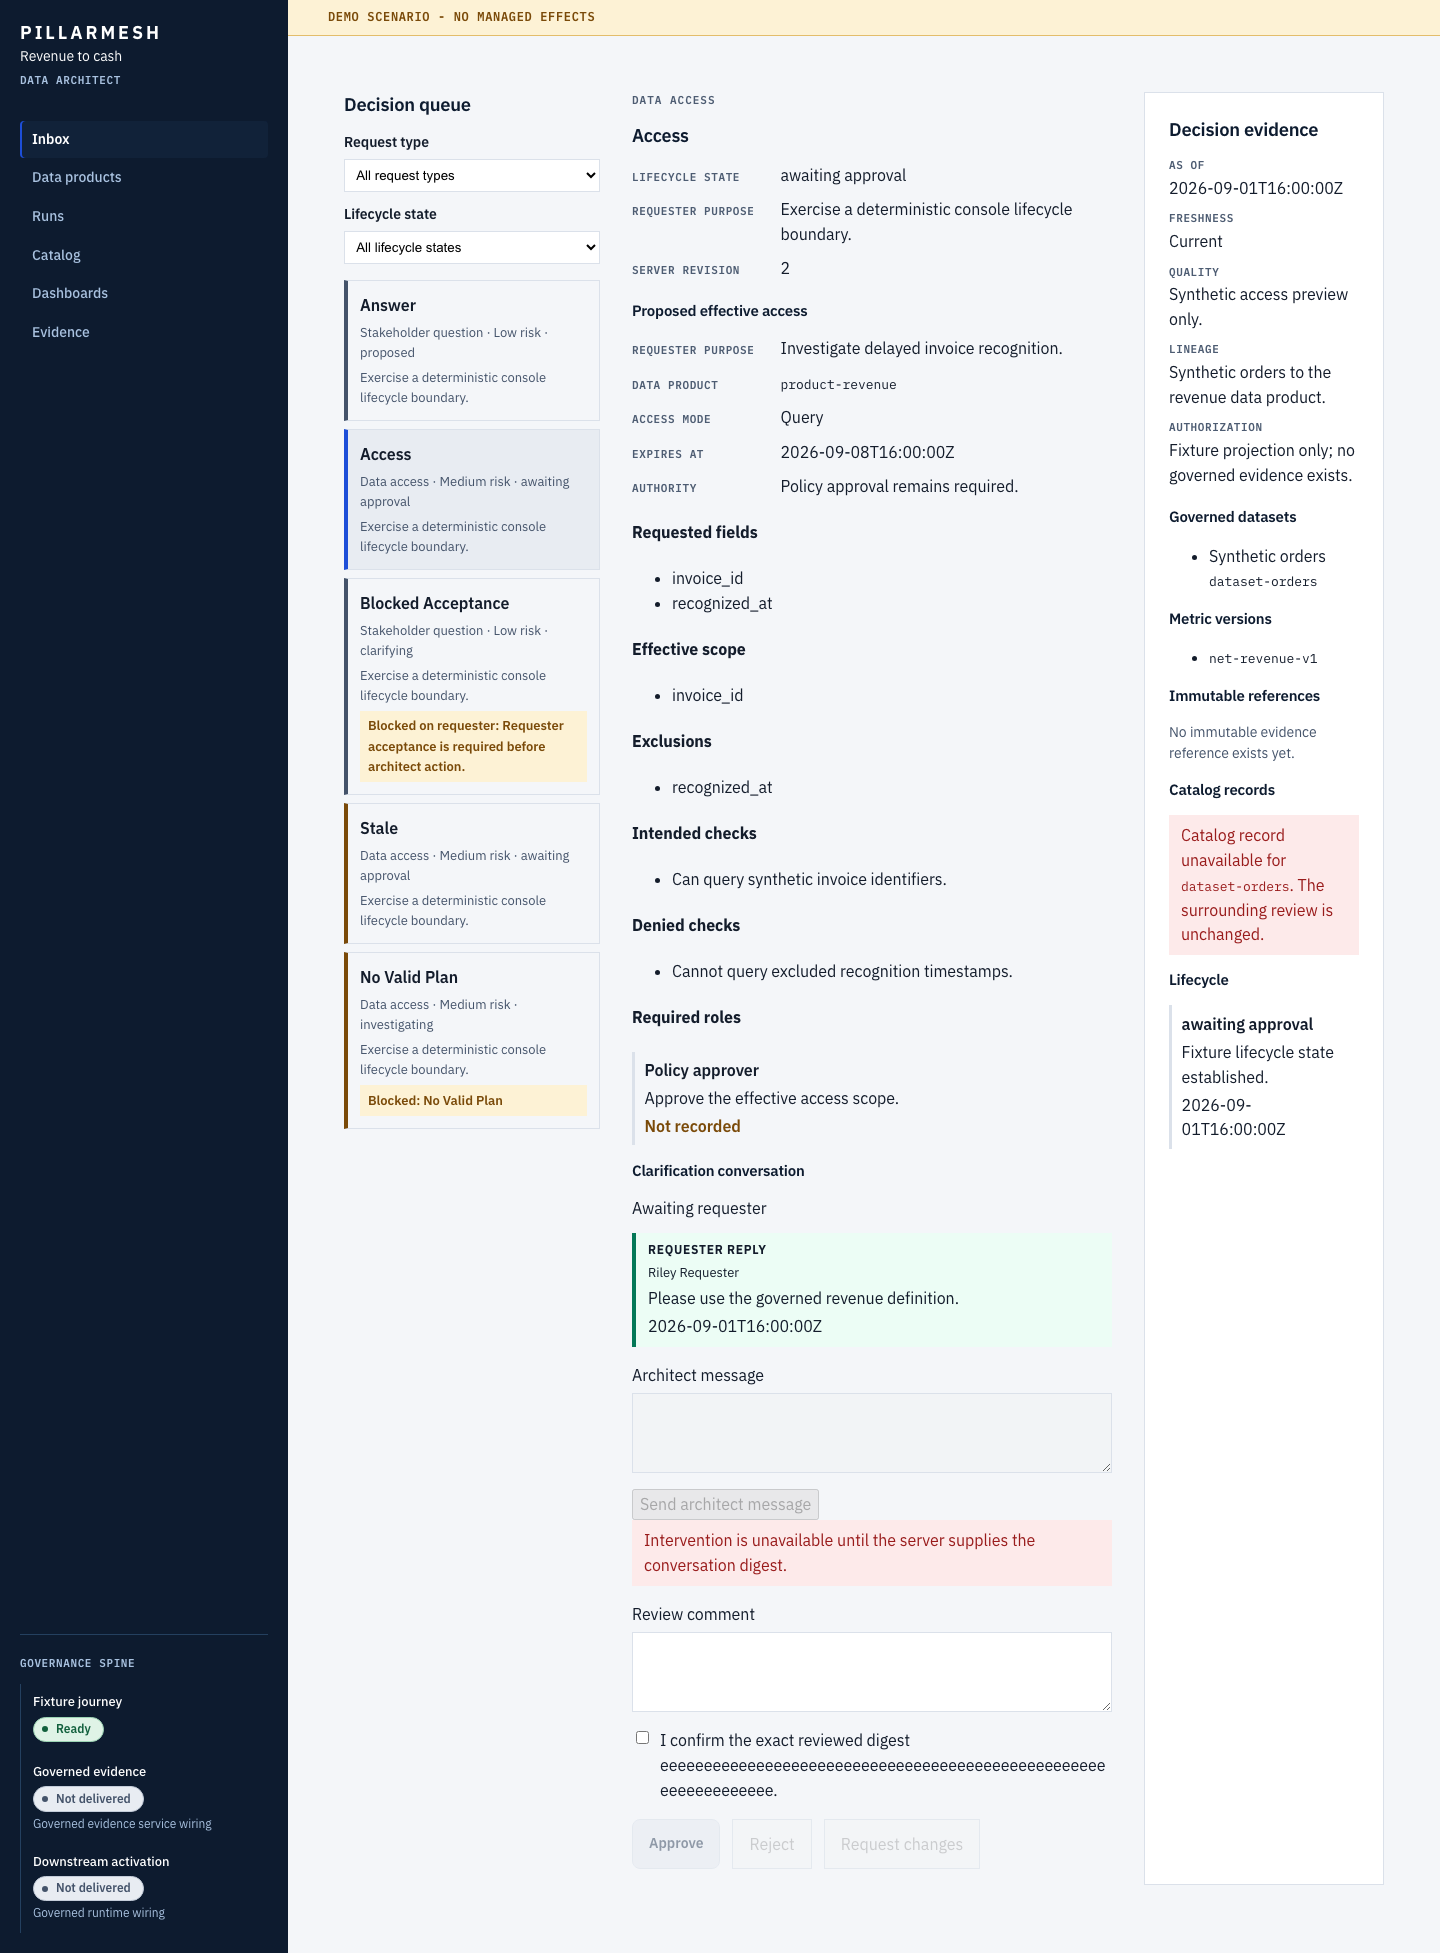
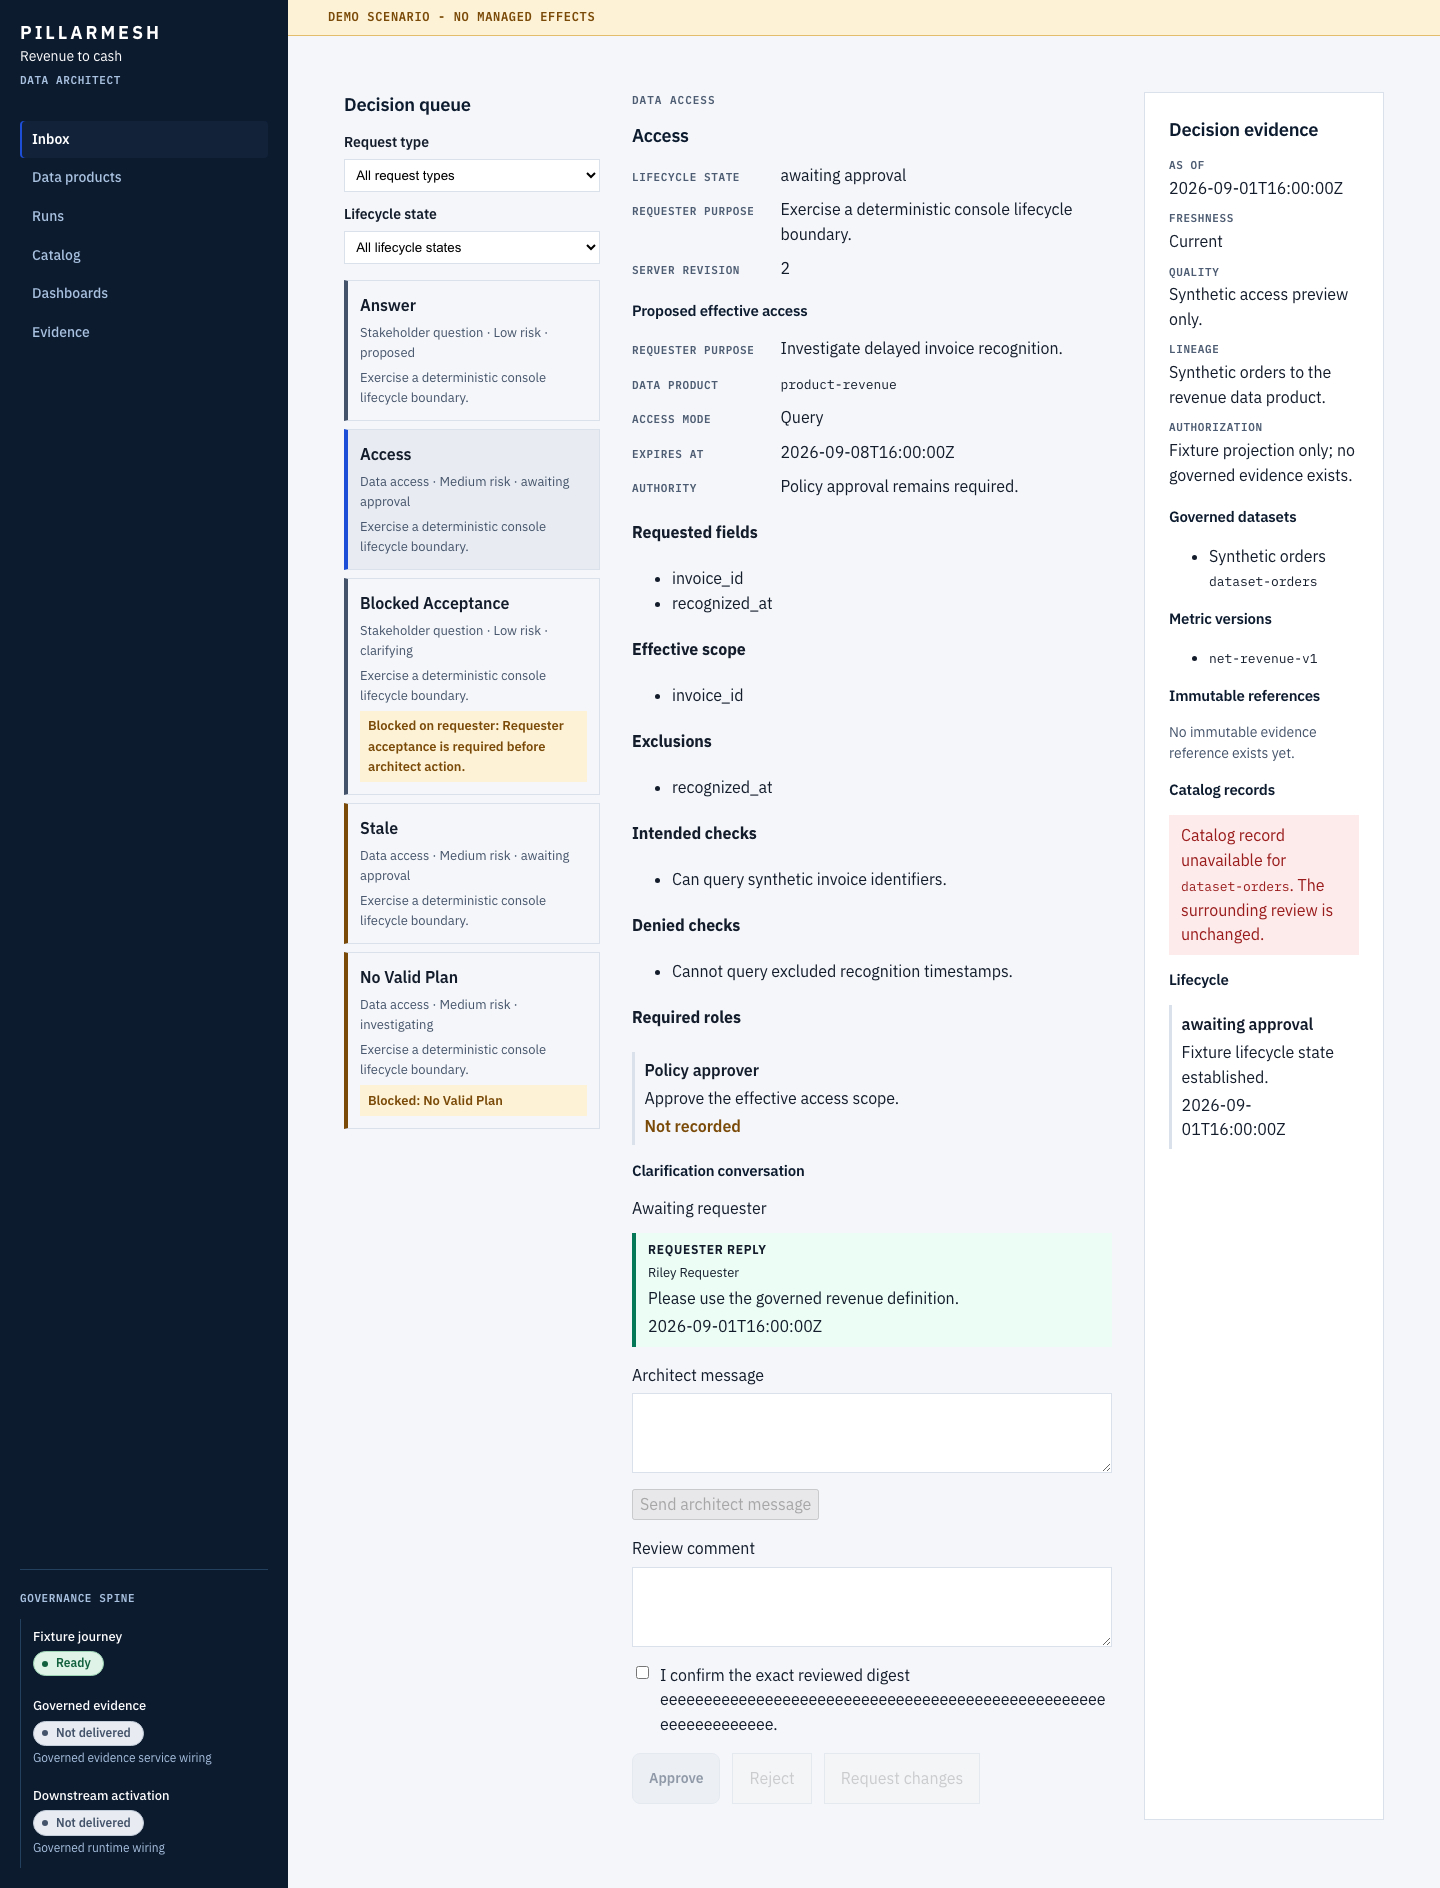
fix(console): let the architect speak in the clarification conversation (#26)
* fix(console): let the architect speak in the clarification conversation

The conversation panel refused every architect message and told the architect the
server had not supplied a conversation digest. The server had supplied it: the
detail projection carries `conversation.conversation_digest`, and
`POST /api/v1/requests/{id}/conversation` commits against it - verified by hand
against the governed console, where the reply landed in request-management's own
database beside the requester's.

The panel takes its client and digest as optional props and the decision
workspace passed neither, so `canIntervene` was false on every request that has
ever been rendered. Both are passed now.

An end-to-end test had written the defect down as a requirement, asserting both
controls permanently disabled and rationalising it in a comment. That is why it
survived. Section 5.5 of the design names the conversation as where the architect
"observes, intervenes, or takes over", and the paragraph about a request blocked
on requester acceptance removes the architect's *decision*, not their voice. The
test now asserts what the design requires: the compose box is reachable by
keyboard while the requester is awaited, the send control is disabled only until
there is something to send, and the panel makes no claim about the server.

Four screenshots change because the compose box is no longer greyed out.

* fix(console): keep the architect's reply against the current conversation
[…]

diff --git a/apps/console/web/src/features/inbox/reviews.test.tsx b/apps/console/web/src/features/inbox/reviews.test.tsx
@@ -13,6 +13,7 @@ import type {
   SessionView,
   StakeholderAnswerProposalView,
 } from "../../api/generated"
+import {ConsoleApiError} from "../../api/client"
 import {AccessPreviewReview} from "./access-preview-review"
 import {CatalogEvidence} from "./catalog-evidence"
 import {ConversationPanel} from "./conversation-panel"
@@ -292,12 +293,12 @@ test("the conversation panel renders requester text as text and labels every aut
   expect(panel).toHaveTextContent("Requester reply")
 })
 
-test("the architect cannot intervene without a server-issued conversation digest", () => {
+test("a read-only conversation projection offers no intervention and says so", () => {
   render(<ConversationPanel conversation={conversation} session={session} />)
 
   expect(screen.getByRole("button", {name: "Send architect message"})).toBeDisabled()
   expect(screen.getByRole("status")).toHaveTextContent(
-    "Intervention is unavailable until the server supplies the conversation digest.",
+    "This projection is read-only, so the conversation cannot be joined from here.",
   )
 })
 
@@ -327,7 +328,6 @@ test("an architect intervention replaces the conversation with the authoritative
     <ConversationPanel
       client={client}
       conversation={conversation}
-      conversationDigest={"8".repeat(64)}
       idempotencyKeyFactory={() => "idempotency-conversation"}
       session={session}
     />,
@@ -345,7 +345,7 @@ test("an architect intervention replaces the conversation with the authoritative
     {
       active_role: "data_architect",
       body: "Recognized means invoiced and accepted.",
-      conversation_digest: "8".repeat(64),
+      conversation_digest: conversation.conversation_digest,
       expected_revision: 2,
     },
     {
@@ -353,4 +353,85 @@ test("an architect intervention replaces the conversation with the authoritative
       idempotencyKey: "idempotency-conversation",
     },
   )
+})
+
+test("a second architect reply carries the digest the first reply returned", async () => {
+  // The panel took the revision from the conversation a send returned but the digest
+  // from a prop nothing refreshed, so after one reply the two disagreed and the
+  // server refused everything after it with `stale_revision`.
+  const user = userEvent.setup()
+  const replies = [
+    {...conversation, revision: 3, conversation_digest: "d".repeat(64)},
+    {...conversation, revision: 4, conversation_digest: "e".repeat(64)},
+  ]
+  const appendConversationMessage = vi.fn(async () => ({
+    meta: {correlation_id: "correlation-conversation", data_provenance: "demo_fixture" as const},
+    data: replies.shift() ?? conversation,
+  }))
+
+  render(
+    <ConversationPanel
+      client={{appendConversationMessage}}
+      conversation={conversation}
+      session={session}
+    />,
+  )
+
+  const compose = screen.getByRole("textbox", {name: "Architect message"})
+  await user.type(compose, "First.")
+  await user.click(screen.getByRole("button", {name: "Send architect message"}))
+  await waitFor(() => expect(appendConversationMessage).toHaveBeenCalledTimes(1))
+  await user.type(compose, "Second.")
+  await user.click(screen.getByRole("button", {name: "Send architect message"}))
+  await waitFor(() => expect(appendConversationMessage).toHaveBeenCalledTimes(2))
+
+  expect(appendConversationMessage).toHaveBeenNthCalledWith(
+    1,
+    conversation.request_id,
+    expect.objectContaining({
+      conversation_digest: conversation.conversation_digest,
+      expected_revision: conversation.revision,
+    }),
+    expect.anything(),
+  )
+  expect(appendConversationMessage).toHaveBeenNthCalledWith(
+    2,
+    conversation.request_id,
+    expect.objectContaining({conversation_digest: "d".repeat(64), expected_revision: 3}),
+    expect.anything(),
+  )
+})
+
+test("a refused reply reports the server's own reason and keeps the message", async () => {
+  // The bare `catch` discarded a typed error carrying the cause and the recovery
+  // action, so the architect was told only that something failed.
+  const user = userEvent.setup()
+  const appendConversationMessage = vi.fn(async () => {
+    throw new ConsoleApiError(409, {
+      meta: {correlation_id: "correlation-stale", data_provenance: "demo_fixture"},
+      error: {
+        code: "stale_revision",
+        safe_message: "The conversation changed. Reload it before posting a message.",
+        recovery_action: "reload",
+        field: null,
+      },
+    })
+  })
+
+  render(
+    <ConversationPanel
+      client={{appendConversationMessage}}
+      conversation={conversation}
+      session={session}
+    />,
+  )
+
+  const compose = screen.getByRole("textbox", {name: "Architect message"})
+  await user.type(compose, "Following up.")
+  await user.click(screen.getByRole("button", {name: "Send architect message"}))
+
+  expect(
+    await screen.findByText("The conversation changed. Reload it before posting a message."),
+  ).toBeVisible()
+  expect(compose).toHaveValue("Following up.")
 })

diff --git a/apps/console/web/src/features/inbox/conversation-panel.tsx b/apps/console/web/src/features/inbox/conversation-panel.tsx
@@ -7,7 +7,7 @@ import type {
   ConversationView,
   SessionView,
 } from "../../api/generated"
-import type {MutationRequestContext} from "../../api/client"
+import {ConsoleApiError, type MutationRequestContext} from "../../api/client"
 
 const authorLabels = {
   pillarmesh: "PillarMesh question",
@@ -29,7 +29,6 @@ export interface ConversationPanelClient {
 interface ConversationPanelProps {
   readonly client?: ConversationPanelClient
   readonly conversation: ConversationView
-  readonly conversationDigest?: string
   readonly idempotencyKeyFactory?: () => string
   readonly session: SessionView
 }
@@ -41,7 +40,6 @@ function defaultIdempotencyKey(): string {
 export function ConversationPanel({
   client,
   conversation,
-  conversationDigest,
   idempotencyKeyFactory = defaultIdempotencyKey,
   session,
 }: ConversationPanelProps) {
@@ -60,10 +58,16 @@ export function ConversationPanel({
       ? authoritative.value
       : conversation
   const messages = active.messages ?? []
-  const canIntervene = client !== undefined && conversationDigest !== undefined
+  // Whether a reply is possible depends only on having a client. The digest is a
+  // required field of the projection, so a separate prop for it was a second source
+  // of truth: the revision came from `active` and the digest from the parent, and
+  // after one successful send the parent's copy was a revision behind. Every reply
+  // after the first then carried a fresh revision with a stale digest and the server
+  // refused it as `stale_revision`.
+  const canIntervene = client !== undefined
 
   async function sendMessage(): Promise<void> {
-    if (client === undefined || conversationDigest === undefined || body.trim() === "") {
+    if (client === undefined || body.trim() === "") {
       return
     }
     setSubmitting(true)
@@ -74,7 +78,7 @@ export function ConversationPanel({
         {
           active_role: session.active_role,
           body,
-          conversation_digest: conversationDigest,
+          conversation_digest: active.conversation_digest,
           expected_revision: active.revision,
         },
         {csrfToken: session.csrf_token, idempotencyKey: idempotencyKeyFactory()},
@@ -85,8 +89,12 @@ export function ConversationPanel({
       }
       setAuthoritative({source: conversation, value: response.data})
       setBody("")
-    } catch {
-      setFailure("The message could not be recorded safely. The prior conversation is unchanged.")
+    } catch (error: unknown) {
+      setFailure(
+        error instanceof ConsoleApiError
+          ? error.message
+          : "The message could not be recorded safely. The prior conversation is unchanged.",
+      )
     } finally {
       setSubmitting(false)
     }
@@ -131,7 +139,7 @@ export function ConversationPanel({
       </button>
       {canIntervene ? null : (
         <p className="inbox-unavailable" role="status">
-          Intervention is unavailable until the server supplies the conversation digest.
+          This projection is read-only, so the conversation cannot be joined from here.
         </p>
       )}
       {failure === null ? null : <p role="alert">{failure}</p>}

diff --git a/apps/console/e2e/accessibility.spec.ts b/apps/console/e2e/accessibility.spec.ts
@@ -194,24 +194,32 @@ test("keyboard alone records a decision against the confirmed digest", async ({p
   expect(committed.data.state).toBe("execution_ready")
 })
 
-test("the clarification thread offers no enabled intervention control and says why", async ({
+test("the clarification thread is reachable by keyboard while the requester is awaited", async ({
   page,
 }) => {
+  // This test used to assert that both intervention controls were permanently
+  // disabled, with the panel blaming the server for a conversation digest the
+  // fixture supplies. That was the wiring defect written down as a requirement:
+  // section 5.5 of the design names the conversation as the place the architect
+  // "observes, intervenes, or takes over". Being blocked on the requester removes
+  // the architect's *decision*, not their voice.
   await openRequest(page, "request-blocked-acceptance")
 
   const conversation = page.getByRole("region", {name: "Clarification conversation"})
   await expect(conversation).toBeVisible()
   await expect(conversation).toContainText("Awaiting requester")
+  await expect(conversation).not.toContainText("Intervention is unavailable")
 
-  // Both controls are disabled rather than absent, and the reason is stated in
-  // text rather than implied by their state alone. A disabled control is correctly
-  // outside the keyboard order, so the reachable control on this route is the
-  // review comment instead.
-  await expect(conversation.getByRole("textbox", {name: "Architect message"})).toBeDisabled()
-  await expect(conversation.getByRole("button", {name: "Send architect message"})).toBeDisabled()
-  await expect(conversation).toContainText(
-    "Intervention is unavailable until the server supplies the conversation digest.",
-  )
+  // The send control stays disabled until there is something to send, and the
+  // reason is the empty message rather than a claim about the server.
+  const compose = conversation.getByRole("textbox", {name: "Architect message"})
+  const send = conversation.getByRole("button", {name: "Send architect message"})
+  await expect(compose).toBeEnabled()
+  await expect(send).toBeDisabled()
+
+  await tabTo(page, compose)
+  await compose.pressSequentially("Following up with the requester.")
+  await expect(send).toBeEnabled()
 
   const comment = page
     .getByRole("region", {name: "Request detail"})

diff --git a/apps/console/web/src/features/inbox/decision-workspace.test.tsx b/apps/console/web/src/features/inbox/decision-workspace.test.tsx
@@ -439,3 +439,52 @@ test("a detail projection from another provenance never reaches the decision sur
   )
   expect(screen.queryByRole("button", {name: "Approve"})).toBeNull()
 })
+
+test("the architect can reply in the clarification conversation", async () => {
+  // `POST /api/v1/requests/{id}/conversation` is wired, and the detail projection
+  // carries the digest the command needs, but the panel was rendered without the
+  // client or the digest. Both props are optional, so it silently refused every
+  // reply and told the architect the server had not supplied a digest it had.
+  const user = userEvent.setup()
+  const appendConversationMessage = vi.fn(async () => ({
+    meta: {correlation_id: "correlation-conversation", data_provenance: "demo_fixture" as const},
+    data: {
+      ...answerDetail.conversation,
+      revision: answerDetail.conversation.revision + 1,
+      conversation_digest: "d".repeat(64),
+      messages: [
+        ...(answerDetail.conversation.messages ?? []),
+        {
+          message_id: "con-architect-reply",
+          author_label: "architect-a",
+          author_role: "data_architect" as const,
+          body: "Using the governed definition.",
+          created_at: "2026-09-01T16:05:00Z",
+        },
+      ],
+    },
+  }))
+  const client = createClient({appendConversationMessage})
+  renderWorkspace(client, answerDetail.request_id)
+
+  const compose = await screen.findByRole("textbox", {name: "Architect message"})
+  await user.type(compose, "Using the governed definition.")
+  await user.click(screen.getByRole("button", {name: "Send architect message"}))
+
+  await waitFor(() => expect(appendConversationMessage).toHaveBeenCalled())
+  expect(appendConversationMessage).toHaveBeenCalledWith(
+    answerDetail.request_id,
+    expect.objectContaining({
+      active_role: "data_architect",
+      body: "Using the governed definition.",
+      conversation_digest: answerDetail.conversation.conversation_digest,
+      expected_revision: answerDetail.conversation.revision,
+    }),
+    expect.objectContaining({idempotencyKey: expect.any(String)}),
+  )
+  expect(
+    screen.queryByText(
+      "Intervention is unavailable until the server supplies the conversation digest.",
+    ),
+  ).toBeNull()
+})

diff --git a/apps/console/web/src/features/inbox/decision-workspace.tsx b/apps/console/web/src/features/inbox/decision-workspace.tsx
@@ -215,7 +215,14 @@ function RequestDetailPanel({
         <AccessPreviewReview proposal={detail.proposal} />
       )}
 
-      <ConversationPanel conversation={detail.conversation} session={session} />
+      {/* The client is what makes a reply possible at all; without it the panel
+          refuses every message. The digest comes from the conversation itself. */}
+      <ConversationPanel
+        client={client}
+        conversation={detail.conversation}
+        idempotencyKeyFactory={idempotencyKeyFactory}
+        session={session}
+      />
 
       <label className="decision-detail__comment">
         <span>Review comment</span>
